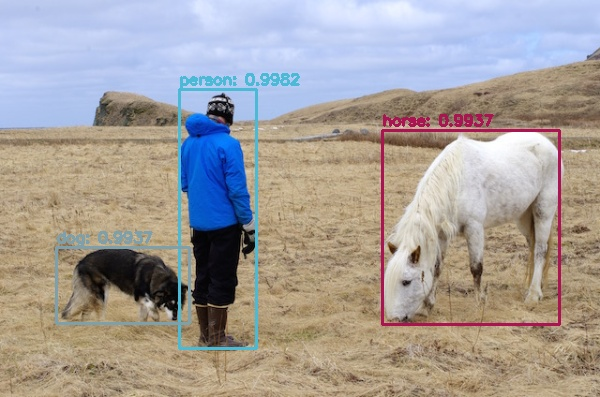
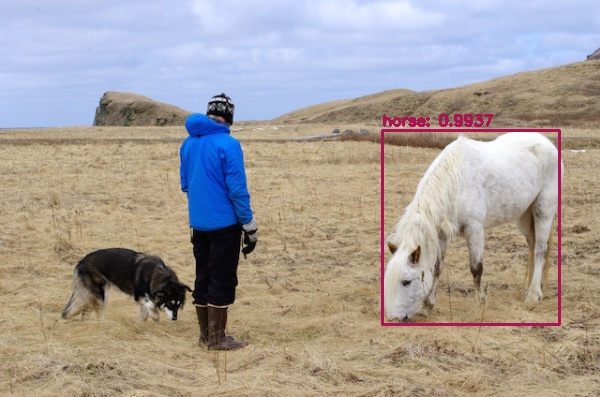
Ajustes

Changed region(s): [[0.09, 0.1814, 0.51, 0.9068]]

diff --git a/classes/computer_vision.py b/classes/computer_vision.py
@@ -267,13 +267,13 @@ class ImageComputerVision(AbstractComputerVision):
                     # Found in images
                     self._labels_to_count[label] += 1
                     self._total_labels_found += 1
-                # Make boxes.
-                (x, y) = (self._boxes[i][0], self._boxes[i][1])
-                (w, h) = (self._boxes[i][2], self._boxes[i][3])
-                color = [int(c) for c in self._colors[self._id_classes[i]]]
-                cv2.rectangle(self._image, (x, y), (x + w, y + h), color, 2)
-                texto = '{}: {:.4f}'.format(label, self._assurances[i])
-                cv2.putText(self._image, texto, (x, y - 5), cv2.FONT_HERSHEY_SIMPLEX, 0.5, color, 2)
+                    # Make boxes.
+                    (x, y) = (self._boxes[i][0], self._boxes[i][1])
+                    (w, h) = (self._boxes[i][2], self._boxes[i][3])
+                    color = [int(c) for c in self._colors[self._id_classes[i]]]
+                    cv2.rectangle(self._image, (x, y), (x + w, y + h), color, 2)
+                    texto = '{}: {:.4f}'.format(label, self._assurances[i])
+                    cv2.putText(self._image, texto, (x, y - 5), cv2.FONT_HERSHEY_SIMPLEX, 0.5, color, 2)
         return self
 
     def save_to_file(self, file_name='result.jpg'):
@@ -296,7 +296,7 @@ def start():
     config = '../resources/data/yolov4.cfg'
 
     images = ImageComputerVision.load_images_from_dir('../resources/fotos_teste')
-    labels_to_count = ['cat', 'truck']
+    labels_to_count = ['horse', 'truck']
     cv = ImageComputerVision(labels, weights, config, labels_to_count=labels_to_count)
     for img in images:
         try:
